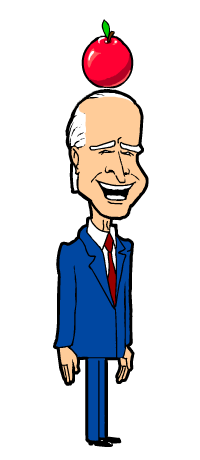
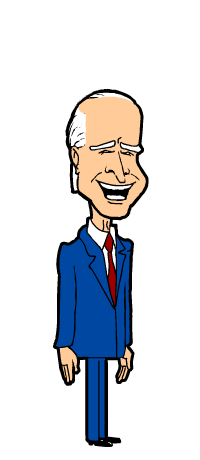
стрела, попавшая в яблоко объединена с самим яблоком

Changed region(s): [[0.39, 0.0304, 0.69, 0.213]]

diff --git a/front/src/Field.jsx b/front/src/Field.jsx
@@ -99,6 +99,14 @@ import city_3 from "./images/fon/city-3.png"
 import city_4 from "./images/fon/city-4.png"
 import joe_1 from "./images/joe/joe.png"
 import silhouette from "./images/locator/silhouette.png"
+import apple_1 from "./images/apple/apple0001.png"
+import apple_2 from "./images/apple/apple0002.png"
+import apple_3 from "./images/apple/apple0003.png"
+import apple_4 from "./images/apple/apple0004.png"
+import apple_5 from "./images/apple/apple0005.png"
+import apple_6 from "./images/apple/apple0006.png"
+import apple_7 from "./images/apple/apple0007.png"
+import apple_8 from "./images/apple/apple0008.png"
 
 function Field() {
     const forest_horizon = 5800;
@@ -191,6 +199,12 @@ function Field() {
         x: 0,
         y: 0
     });
+    /**
+     * Яблоко.
+     * 1 просто яблоко
+     * 2-8 яблоко с попавшей в нее стрелой
+     * */
+    const [apple, setApple] = useState(1);
 
     useEffect(() => {
         setTrajectory([...trajectory, trajectoryPoint]);
@@ -381,6 +395,7 @@ function Field() {
      * Силует на экране радиолокатора
      * */
     const silhouette_ref = useRef();
+    const apple_ref = useRef();
 
     const getPosition = () => {
         const forest_x = forest_ref.current.offsetLeft;
@@ -833,6 +848,26 @@ function Field() {
         }
     }
 
+    async function vibratoWithApple() {
+        let i = 2;
+        let time;
+        while (i <= 8) {
+            if (i === 2) {
+                time = 80;
+            } else {
+                time = 55;
+            }
+            setApple(i);
+            let promise = new Promise((resolve, reject) => {
+                setTimeout(() => {
+                    resolve("готово");
+                }, time)
+            });
+            let result = await promise;
+            i++;
+        }
+    }
+
     const red = <img src={arrow_red} alt={""}/>;
     const green = <img src={arrow_green} alt={""}/>;
     const white = <img src={arrow_white} alt={""}/>;
@@ -989,19 +1024,21 @@ function Field() {
                         compensation_y = -100;
                     }
                     rotation = 90;
+
+                    arrow_stick_ref.current.style.transform = 'rotate(' + rotation + 'deg)';
+                    arrow_stick_ref.current.style.left = r.coord_x + compensation_x + 'px';
+                    arrow_stick_ref.current.style.top = r.coord_y + compensation_y + additional_y + 'px';
+                    setFly(false);
+                    vibrato().then(res => console.log('hit to ' + r.hit_area));
+
                 } else {
                     if (r.hit_area === 'apple') {
-                        compensation_x = 100;
-                        compensation_y = -100;
-                        rotation = 90 + r.angle_degree;
+                        rotation = r.angle_degree;
+                        apple_ref.current.style.transform = 'rotate(' + rotation + 'deg)';
+                        setFly(false);
+                        vibratoWithApple().then(res => console.log('hit to ' + r.hit_area));
                     }
                 }
-
-                arrow_stick_ref.current.style.transform = 'rotate(' + rotation + 'deg)';
-                arrow_stick_ref.current.style.left = r.coord_x + compensation_x + 'px';
-                arrow_stick_ref.current.style.top = r.coord_y + compensation_y + additional_y + 'px';
-                setFly(false);
-                vibrato().then(res => console.log('hit to ' + r.hit_area));
             }
             /**
              * Через 9 сек старт игры с исходной позиции
@@ -1016,12 +1053,18 @@ function Field() {
                 setSomething_in_the_hands('nothing');
                 item_in_the_hands_ref.current = 'nothing';
                 /**
-                 * Выключаем торчащую стрелу
+                 * Выключаем торчащую стрелу из Байдена и из земли
                  * */
                 setStickIsOn(0);
+                /**
+                 * Выключаем торчащую стрелу из яблока,
+                 * включая режим "просто яблоко"
+                 * */
+                setApple(1);
                 setKim_control(1);
                 setStanding_squatting(true);
                 arrow_stick_ref.current.style = '';
+                apple_ref.current.style = '';
                 torso_ref.current.style = '';
                 legs_ref.current.style = '';
                 legs_folded_1_ref.current.style = '';
@@ -1043,7 +1086,7 @@ function Field() {
 
     const get_random_x_for_baiden = () => {
         const min_x = 1820;
-        const max_x = 4800;
+        const max_x = 1830;
         baiden_position_x_ref.current = Math.floor(Math.random() * (max_x - min_x + 1)) + min_x;
     }
 
@@ -1204,6 +1247,16 @@ function Field() {
                     <img src={joe_1} alt={""}/>
                     <div className="joe_box_legs" ref={joe_box_legs_ref}/>
                     <div className="joe_box_body" ref={joe_box_body_ref}/>
+                    <div className="apple" ref={apple_ref}>
+                        <img src={apple_1} alt={""} hidden={apple !== 1}/>
+                        <img src={apple_2} alt={""} hidden={apple !== 2}/>
+                        <img src={apple_3} alt={""} hidden={apple !== 3}/>
+                        <img src={apple_4} alt={""} hidden={apple !== 4}/>
+                        <img src={apple_5} alt={""} hidden={apple !== 5}/>
+                        <img src={apple_6} alt={""} hidden={apple !== 6}/>
+                        <img src={apple_7} alt={""} hidden={apple !== 7}/>
+                        <img src={apple_8} alt={""} hidden={apple !== 8}/>
+                    </div>
                     <div className="joe_box_apple" ref={joe_box_apple_ref}/>
                     <div className="joe_box_head" ref={joe_box_head_ref}/>
                 </div>

diff --git a/front/src/styles.css b/front/src/styles.css
@@ -249,6 +249,15 @@
     /*background-color: #838383;*/
 }
 
+.apple {
+    position: absolute;
+    width: 280px;
+    height: 80px;
+    left: 70px;
+    top: 15px;
+    transform-origin: 30px 40px;
+}
+
 .arrows_little_container {
     position: absolute;
     display: block;
@@ -257,7 +266,7 @@
     background-color: white;
 }
 
-.silhouette{
+.silhouette {
     position: absolute;
     display: block;
     height: 120px;
